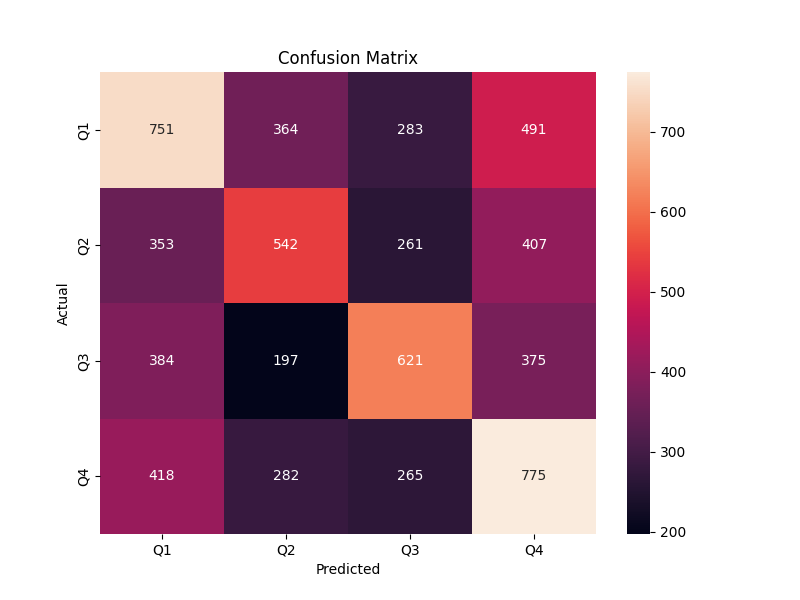
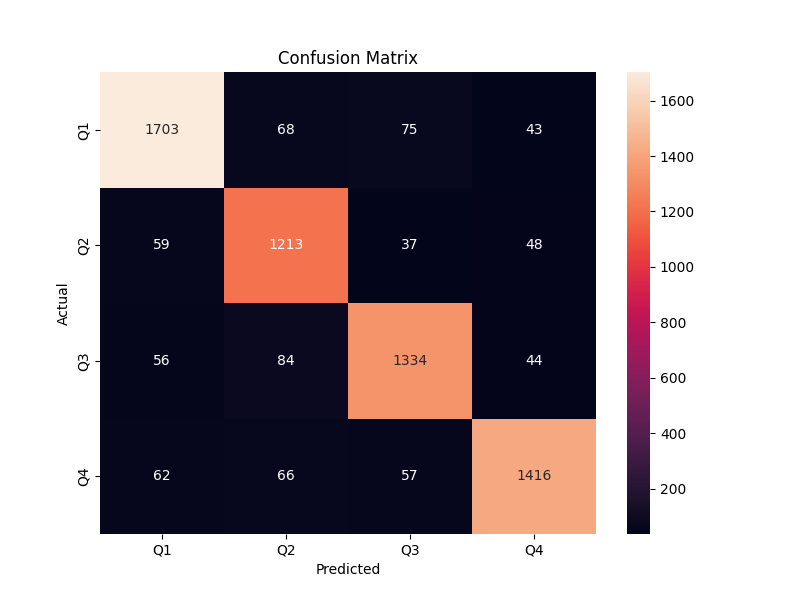
quad success

diff --git a/Models/movingModels/quadrantPredict.py b/Models/movingModels/quadrantPredict.py
@@ -1,7 +1,7 @@
 import numpy as np
 import pandas as pd
 from sklearn.model_selection import train_test_split, GridSearchCV
-from sklearn.ensemble import GradientBoostingClassifier
+from sklearn.ensemble import RandomForestClassifier
 from sklearn.preprocessing import StandardScaler
 from sklearn.metrics import accuracy_score, confusion_matrix
 from imblearn.over_sampling import SMOTE
@@ -10,6 +10,7 @@ import seaborn as sns
 import joblib
 import os
 import re
+from time import time
 
 # Define quadrant mapping function
 def coordinates_to_quadrant(x, y):
@@ -71,9 +72,12 @@ def load_and_preprocess_data(file_or_dir, data_dir, is_static=False):
                     print(f"Doppler frequency range in {fname}: {df['doppler_frequency'].min()} to {df['doppler_frequency'].max()}")
                     print(f"Setting all doppler_frequency to 0 in static file {fname}.")
                     df['doppler_frequency'] = 0  # Static tags should have zero Doppler
-                # Log rssi and phase_angle ranges
+                # Filter rssi outliers
                 if 'rssi' in df.columns:
                     print(f"RSSI range in {fname}: {df['rssi'].min()} to {df['rssi'].max()}")
+                    outliers_rssi = (df['rssi'] < -100) | (df['rssi'] > -40)
+                    print(f"Outliers in rssi (<-100 or >-40 dBm) in {fname}: {outliers_rssi.sum()}")
+                    df.loc[outliers_rssi, 'rssi'] = np.nan
                 if 'phase_angle' in df.columns:
                     print(f"Phase angle range in {fname}: {df['phase_angle'].min()} to {df['phase_angle'].max()}")
                 # Parse coordinates from filename
@@ -91,6 +95,16 @@ def load_and_preprocess_data(file_or_dir, data_dir, is_static=False):
                 )
                 pivoted.columns = [f'{col[0]}_{col[1]}' for col in pivoted.columns]
                 pivoted = pivoted.reset_index()
+                # Fill NaNs with mean for this file
+                for col in pivoted.columns:
+                    if col.startswith(('rssi_', 'phase_angle_', 'doppler_frequency_')):
+                        pivoted[col] = pivoted[col].fillna(pivoted[col].mean())
+                # Check for remaining NaNs
+                nan_counts = pivoted.isna().sum()
+                print(f"NaN counts in {fname} after imputation: {nan_counts[nan_counts > 0].to_dict()}")
+                if pivoted.isna().any().any():
+                    print(f"Warning: Remaining NaNs in {fname} after imputation. Dropping rows.")
+                    pivoted = pivoted.dropna()
                 pivoted['x_true'] = x_true
                 pivoted['y_true'] = y_true
                 pivoted['quadrant'] = pivoted.apply(lambda r: coordinates_to_quadrant(r['x_true'], r['y_true']), axis=1)
@@ -142,10 +156,13 @@ def load_and_preprocess_data(file_or_dir, data_dir, is_static=False):
                     print(f"Doppler frequency range in {fname}: {df['doppler_frequency'].min()} to {df['doppler_frequency'].max()}")
                     outliers_doppler = df['doppler_frequency'].abs() > 1000
                     print(f"Outliers in doppler_frequency (>1000 Hz) in {fname}: {outliers_doppler.sum()}")
-                    df.loc[outliers_doppler, 'doppler_frequency'] = np.nan  # Will be filled with mean later
-                # Log rssi and phase_angle ranges
+                    df.loc[outliers_doppler, 'doppler_frequency'] = np.nan
+                # Filter rssi outliers
                 if 'rssi' in df.columns:
                     print(f"RSSI range in {fname}: {df['rssi'].min()} to {df['rssi'].max()}")
+                    outliers_rssi = (df['rssi'] < -100) | (df['rssi'] > -40)
+                    print(f"Outliers in rssi (<-100 or >-40 dBm) in {fname}: {outliers_rssi.sum()}")
+                    df.loc[outliers_rssi, 'rssi'] = np.nan
                 if 'phase_angle' in df.columns:
                     print(f"Phase angle range in {fname}: {df['phase_angle'].min()} to {df['phase_angle'].max()}")
                 df['timestamp'] = df['timestamp'].round(3)
@@ -157,6 +174,16 @@ def load_and_preprocess_data(file_or_dir, data_dir, is_static=False):
                 )
                 pivoted.columns = [f'{col[0]}_{col[1]}' for col in pivoted.columns]
                 pivoted = pivoted.reset_index()
+                # Fill NaNs with mean for this file
+                for col in pivoted.columns:
+                    if col.startswith(('rssi_', 'phase_angle_', 'doppler_frequency_')):
+                        pivoted[col] = pivoted[col].fillna(pivoted[col].mean())
+                # Check for remaining NaNs
+                nan_counts = pivoted.isna().sum()
+                print(f"NaN counts in {fname} after imputation: {nan_counts[nan_counts > 0].to_dict()}")
+                if pivoted.isna().any().any():
+                    print(f"Warning: Remaining NaNs in {fname} after imputation. Dropping rows.")
+                    pivoted = pivoted.dropna()
                 x, y = interpolate_circle_path(pivoted['timestamp'], row['center_x_true'], row['center_y_true'], row['radius_true'], row['direction'], num_points=500)
                 pivoted['x_true'] = x
                 pivoted['y_true'] = y
@@ -203,6 +230,7 @@ def generate_synthetic_static_data(n_points_per_quadrant=100):
 # Main processing
 def main():
     """Main function to load data, train model, and generate outputs."""
+    start_time = time()
     # File paths
     metadata_file = '/Users/calebrozenboom/Documents/RFID_Project/RFID-Locate-main/Testing/MovementTesting/CircleTests/CircleMetadata.csv'
     data_dir = '/Users/calebrozenboom/Documents/RFID_Project/RFID-Locate-main/Testing/MovementTesting/CircleTests'
@@ -243,8 +271,12 @@ def main():
     features = [f'rssi_{i}' for i in range(1, 5)] + [f'phase_angle_{i}' for i in range(1, 5)] + [f'doppler_frequency_{i}' for i in range(1, 5)] + ['rssi_1_2_diff', 'rssi_3_4_diff', 'phase_angle_1_2_diff', 'phase_angle_3_4_diff']
     target = 'quadrant'
     
-    # Handle missing values
-    data[features] = data[features].fillna(data[features].mean())
+    # Verify no NaNs before splitting
+    nan_counts = data[features].isna().sum()
+    print(f"NaN counts in features before splitting: {nan_counts[nan_counts > 0].to_dict()}")
+    if data[features].isna().any().any():
+        print("Warning: Dropping rows with remaining NaNs before splitting.")
+        data = data.dropna(subset=features)
     
     # Split data
     X = data[features]
@@ -253,6 +285,7 @@ def main():
     
     # Apply SMOTE to balance training data
     smote = SMOTE(random_state=42)
+    print("Applying SMOTE...")
     X_train_balanced, y_train_balanced = smote.fit_resample(X_train, y_train)
     print("Sample counts after SMOTE:")
     print(pd.Series(y_train_balanced).value_counts())
@@ -262,20 +295,22 @@ def main():
     X_train_scaled = scaler.fit_transform(X_train_balanced)
     X_test_scaled = scaler.transform(X_test)
     
-    # Train Gradient Boosting
-    print("Training Gradient Boosting...")
-    gbc = GradientBoostingClassifier(random_state=42)
+    # Train Random Forest with progress logging
+    print("Training Random Forest...")
+    rfc = RandomForestClassifier(random_state=42, class_weight='balanced')
     param_grid = {
-        'n_estimators': [100, 200, 300],
-        'max_depth': [3, 5, 7],
-        'learning_rate': [0.01, 0.1, 0.2]
+        'n_estimators': [200, 300],
+        'max_depth': [20, 30],
+        'min_samples_split': [2],
+        'min_samples_leaf': [1]
     }
-    grid_search = GridSearchCV(gbc, param_grid, cv=5, scoring='accuracy', n_jobs=-1)
+    grid_search = GridSearchCV(rfc, param_grid, cv=5, scoring='accuracy', n_jobs=-1, verbose=2)
     grid_search.fit(X_train_scaled, y_train_balanced)
     
     # Best model
     model = grid_search.best_estimator_
     print(f"Best parameters: {grid_search.best_params_}")
+    print(f"Training time: {(time() - start_time) / 60:.2f} minutes")
     
     # Evaluate
     y_pred = model.predict(X_test_scaled)
@@ -294,9 +329,10 @@ def main():
             print(f"Accuracy for {q}: {acc:.4f}")
             results.append({'Quadrant': q, 'Accuracy': acc})
     
-    # Per-file accuracy (dynamic and static data)
+    # Per-file accuracy
+    file_results = []
     for dataset, name in [(dynamic_data, 'dynamic'), (static_data, 'static')]:
-        test_data = dataset[dataset['timestamp'].isin(X_test.index)]
+        test_data = dataset[dataset.index.isin(X_test.index)]
         if not test_data.empty:
             test_data = test_data.copy()
             test_data['rssi_1_2_diff'] = test_data['rssi_1'] - test_data['rssi_2']
@@ -312,19 +348,31 @@ def main():
             for filename in test_data['filename'].unique():
                 mask = test_data['filename'] == filename
                 file_acc = accuracy_score(y_test_data[mask], y_pred_data[mask])
-                file_results = {'Dataset': name, 'Filename': filename, 'Total Accuracy': file_acc}
+                file_results.append({
+                    'Dataset': name,
+                    'Filename': filename,
+                    'Total Accuracy': file_acc
+                })
                 for q in quadrants:
                     q_mask = (test_data['filename'] == filename) & (y_test_data == q)
                     if q_mask.sum() > 0:
-                        q_acc = accuracy_score(y_test_data[q_mask], y_pred_data[q_mask])
-                        file_results[f'{q} Accuracy'] = q_acc
+                        file_results[-1][f'{q} Accuracy'] = accuracy_score(y_test_data[q_mask], y_pred_data[q_mask])
                     else:
-                        file_results[f'{q} Accuracy'] = np.nan
-                results.append(file_results)
+                        file_results[-1][f'{q} Accuracy'] = np.nan
     
     # Save results
+    results_df = pd.DataFrame(results + file_results)
     results_file = 'quadrant_results.csv'
-    pd.DataFrame(results).to_csv(results_file, index=False)
+    with open(results_file, 'w') as f:
+        f.write(
+            "# Quadrant and Per-File Results\n"
+            "# This file contains quadrant accuracies and per-file accuracies for dynamic and static data.\n"
+            "# - Quadrant: Q1 (x<7.5, y>=7.5), Q2 (x>=7.5, y>=7.5), Q3 (x<7.5, y<7.5), Q4 (x>=7.5, y<7.5).\n"
+            "# - Accuracy: Prediction accuracy for each quadrant or file (0 to 1).\n"
+            "# - Dataset: 'dynamic' (CircleTests) or 'static' (Test8).\n"
+            "# - Filename: Name of the data file (e.g., CircleTest1-1.csv, (12,3).csv).\n"
+        )
+    results_df.to_csv(results_file, mode='a', index=False)
     print(f"Results saved to: {os.path.abspath(results_file)}")
     
     # Feature importance
@@ -345,11 +393,10 @@ def main():
     with open(feature_imp_file, 'w') as f:
         f.write(
             "# Feature Importance\n"
-            "# This file shows the importance of each feature in the Gradient Boosting model.\n"
+            "# This file shows the importance of each feature in the Random Forest model.\n"
             "# - Feature: The signal feature (rssi, phase_angle, doppler_frequency) or pairwise difference for each antenna (1-4).\n"
             "# - Importance: The relative importance score (higher means more contribution to quadrant prediction).\n"
             "# - Antenna_Position: The antenna's coordinates in the 15x15 ft grid (A1=[0,0], A2=[0,15], A3=[15,15], A4=[15,0]) or difference pair (e.g., A1-A2).\n"
-            "# Interpretation: Features with higher importance are more critical for distinguishing quadrants.\n"
         )
     feature_imp_df.to_csv(feature_imp_file, mode='a', index=False)
     print(f"Feature importance saved to: {os.path.abspath(feature_imp_file)}")
@@ -371,8 +418,6 @@ def main():
             "# - Rows: Actual quadrants (Q1, Q2, Q3, Q4).\n"
             "# - Columns: Predicted quadrants (Q1, Q2, Q3, Q4).\n"
             "# - Values: Number of samples for each actual-predicted pair.\n"
-            "# Interpretation: Diagonal values are correct predictions. Off-diagonal values are errors (e.g., Q1 predicted as Q2).\n"
-            "# Quadrant Definitions: Q1 (x<7.5, y>=7.5), Q2 (x>=7.5, y>=7.5), Q3 (x<7.5, y<7.5), Q4 (x>=7.5, y<7.5).\n"
         )
     cm_df.to_csv(cm_file, mode='a')
     print(f"Confusion matrix saved to: {os.path.abspath(cm_file)}")
